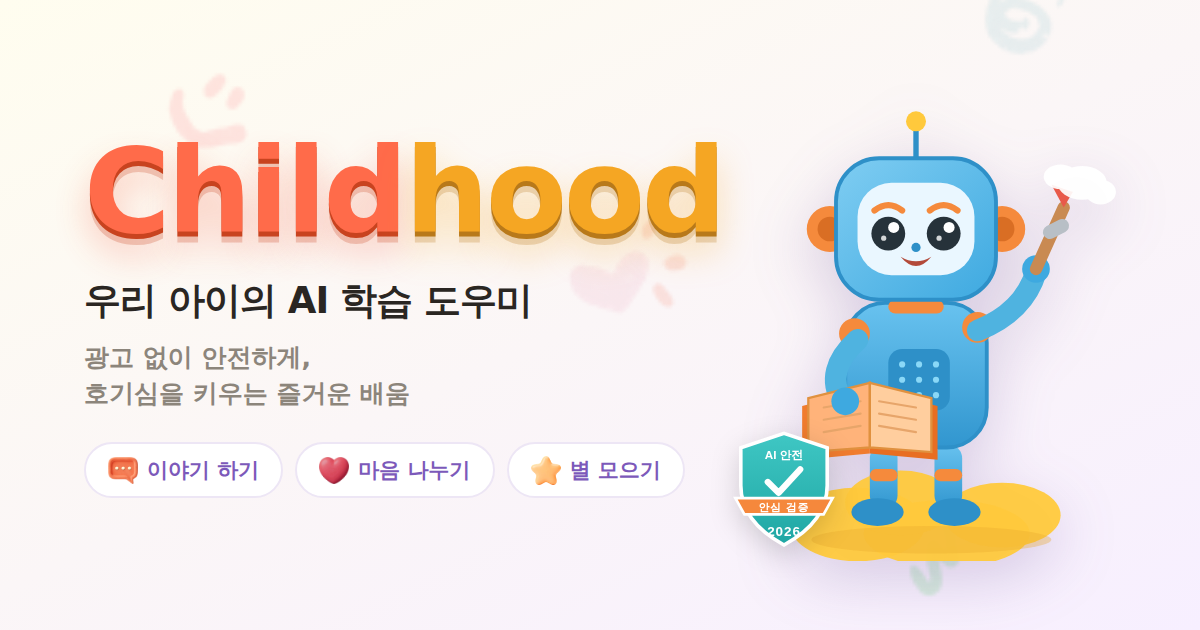
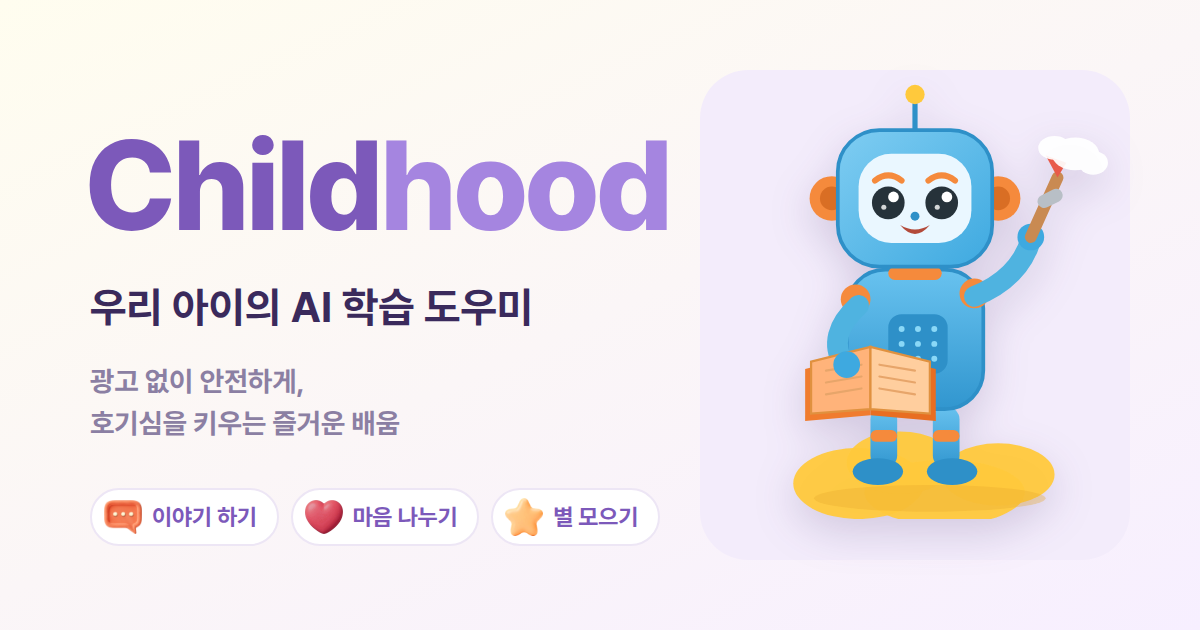
Remove unsupported promo claims, and set the test-period request cap
At the owner's direction, remove the claims the app has no basis for:
the "AI 안전 검증 2026" badge on the start screen and in the shared preview
image, the "4.8" rating (the sign-up safety step and the offer screen,
along with the invented parent review that backed it), and the "100
minutes of voice / 50 pictures a week" entitlements that nothing enforces.
The unused badge SVG and the CSS for the removed blocks go too. The preview
image is redrawn in the app's purple look without the badge.

A test scans the sources and index.html for these phrases so they cannot
come back, and a screen test walks the start screen, the sign-up steps and
the offer screen. Both fail with the removal reverted.

The Render blueprint's global daily cap is lowered to 300 for the test
period, with a note on cost. Notes record the decisions made for the test
period (monthly spend limit, parent accounts, which service stays).

Vite is updated to a patched version; the advisory is about its dev server
and does not affect the deployed site, but it failed the audit check.

Claude-Session: https://claude.ai/code/session_01WNsF1GMhdeUdp7kshLsnpY

diff --git a/src/index.css b/src/index.css
@@ -1210,16 +1210,6 @@ body {
 }
 .splash-robot-svg { width: 100%; height: auto; display: block; }
 
-.splash-badge {
-  position: absolute;
-  top: -2%;
-  left: -2%;
-  z-index: 3;
-  width: 27%;
-  filter: drop-shadow(0 6px 12px rgba(0, 0, 0, 0.2));
-}
-.badge-svg { width: 100%; height: auto; display: block; }
-
 .splash-deco {
   position: absolute;
   top: 2%;
@@ -1469,10 +1459,6 @@ body {
   place-items: center;
   font-size: 22px;
 }
-.ob-rating { margin: 28px 0 8px; text-align: center; }
-.ob-rating-num { display: block; font-size: 46px; font-weight: 900; color: #2b2117; }
-.ob-rating-sub { font-size: 14px; color: #9c8a7b; font-weight: 600; }
-
 .ob-cta {
   padding: 12px 24px calc(20px + env(safe-area-inset-bottom));
   background: linear-gradient(180deg, rgba(248,221,207,0), #F8DDCF 40%);
@@ -1661,23 +1647,6 @@ body {
 .ob-plan-name { font-size: 16px; color: #2b2117; }
 .ob-plan-price { font-size: 22px; font-weight: 900; color: #2b2117; margin-top: 2px; }
 .ob-plan-per { font-size: 12.5px; color: #9c8a7b; font-weight: 600; }
-
-.ob-pw-trust { margin-top: 26px; text-align: center; }
-.ob-pw-stars { color: #FFB400; font-size: 22px; letter-spacing: 2px; }
-.ob-pw-rating { margin-top: 6px; font-size: 14px; color: #7a6b5d; }
-.ob-pw-rating b { color: #2b2117; font-size: 16px; }
-.ob-pw-review {
-  margin-top: 14px;
-  background: #fffdfb;
-  border-radius: 16px;
-  padding: 16px 18px;
-  font-size: 15px;
-  line-height: 1.55;
-  color: #4a3d30;
-  font-weight: 600;
-  box-shadow: 0 3px 9px rgba(0, 0, 0, 0.06);
-}
-.ob-pw-review span { display: block; margin-top: 8px; font-size: 13px; color: #9c8a7b; font-weight: 700; }
 
 .ob-pw-faq { margin-top: 26px; }
 .ob-pw-faq h3 { font-size: 17px; font-weight: 800; color: #2b2117; margin-bottom: 10px; }
@@ -2635,7 +2604,7 @@ body {
 
 /* 카드/시트/모달 → 다크 표면 + 네온 라인 + 글로우 */
 .parent-banner, .guard-card, .act-card, .coll-item, .mb-item, .mb-attend.done,
-.sub-card, .ob-field, .ob-safe-card, .ob-pw-feat, .ob-pw-review, .sparks-way,
+.sub-card, .ob-field, .ob-safe-card, .ob-pw-feat, .sparks-way,
 .voice-opt, .sheet, .pin-card, .mission-modal, .celebrate, .modal, .live-stt,
 .voice-reply, .ob-plan, .ob-pw-faq details, .ask-bar, .age-opt, .sub-card {
   background: var(--surface) !important;
@@ -3235,7 +3204,7 @@ input, .composer input, .ob-field input, .im-bar input { font-size: 18px !import
 
 /* 카드·시트·모달: 흰 표면 + 아주 부드러운 그림자 */
 .parent-banner, .guard-card, .act-card, .coll-item, .mb-item, .sub-card,
-.ob-field, .ob-safe-card, .ob-pw-feat, .ob-pw-review, .sparks-way, .voice-opt,
+.ob-field, .ob-safe-card, .ob-pw-feat, .sparks-way, .voice-opt,
 .sheet, .pin-card, .mission-modal, .celebrate, .modal, .live-stt, .voice-reply,
 .ob-plan, .ob-pw-faq details, .ask-bar, .age-opt, .badge-card, .book-count,
 .hd-menu, .caption, .mb-attend.done {
@@ -4768,9 +4737,6 @@ a.guard-settings-link { text-decoration: none; color: inherit; margin-top: 10px;
   background: #fff !important; border: 1px solid #EDE6F5 !important; border-radius: 16px; box-shadow: none !important; color: #3A2A5C;
 }
 .ob.px .ob-safe-icon { background: #F3ECFB !important; }
-.ob.px .ob-rating-num { color: #7C59BA; }
-.ob.px .ob-rating-sub { color: #8B7FA3; }
-
 /* 버튼 */
 .ob.px .ob-primary {
   background: #7C59BA !important; color: #fff !important; border-radius: 999px;
@@ -4795,9 +4761,8 @@ a.guard-settings-link { text-decoration: none; color: inherit; margin-top: 10px;
 .ob.px .ob-plan-tag { background: #FFF1DD !important; color: #B45F00 !important; }
 .ob.px .ob-plan-name, .ob.px .ob-plan-price { color: #3A2A5C; }
 .ob.px .ob-plan-per { color: #8B7FA3; }
-.ob.px .ob-pw-trust, .ob.px .ob-pw-faq details { background: #fff !important; border: 1px solid #EDE6F5 !important; box-shadow: none !important; }
-.ob.px .ob-pw-stars { color: #DB6A00; }
-.ob.px .ob-pw-note, .ob.px .ob-pw-rating, .ob.px .ob-pw-review { color: #8B7FA3; }
+.ob.px .ob-pw-faq details { background: #fff !important; border: 1px solid #EDE6F5 !important; box-shadow: none !important; }
+.ob.px .ob-pw-note { color: #8B7FA3; }
 .ob.px .ob-pw-cta { background: linear-gradient(180deg, rgba(255,253,239,0), #F9F4FF 40%); }
 .ob.px h1, .ob.px .ob-pw-title { word-break: keep-all; }
 

diff --git a/src/lib/data.js b/src/lib/data.js
@@ -222,18 +222,6 @@ export function interestEmojis(interestIds) {
     .filter(Boolean);
 }
 
-// 스플래시용 안전 인증 배지 — 상표 무관 오리지널 (교육 앱스토어 배지 아님)
-export const SAFETY_BADGE = `<svg viewBox="0 0 120 140" xmlns="http://www.w3.org/2000/svg" role="img" aria-label="AI 안전 검증 2026" class="badge-svg">
-  <defs><linearGradient id="shield" x1="0" y1="0" x2="0" y2="1">
-    <stop offset="0" stop-color="#3FC7C4"/><stop offset="1" stop-color="#1FA6A3"/></linearGradient></defs>
-  <path d="M60 6 L108 22 V64 Q108 104 60 130 Q12 104 12 64 V22 Z" fill="url(#shield)" stroke="#fff" stroke-width="4"/>
-  <path d="M42 60 l12 12 l24 -26" fill="none" stroke="#fff" stroke-width="7" stroke-linecap="round" stroke-linejoin="round"/>
-  <text x="60" y="34" text-anchor="middle" fill="#fff" font-size="13" font-weight="800" font-family="sans-serif">AI 안전</text>
-  <path d="M6 78 H114 L104 96 H16 Z" fill="#F5883C" stroke="#fff" stroke-width="3"/>
-  <text x="60" y="92" text-anchor="middle" fill="#fff" font-size="12" font-weight="800" font-family="sans-serif" letter-spacing="1">안심 검증</text>
-  <text x="60" y="120" text-anchor="middle" fill="#fff" font-size="15" font-weight="800" font-family="sans-serif" letter-spacing="1">2026</text>
-</svg>`;
-
 // 스플래시 장식 — 하트 + 물감 방울
 export const SPLASH_DECO = `<svg viewBox="0 0 120 90" xmlns="http://www.w3.org/2000/svg" aria-hidden="true" class="deco-svg">
   <path d="M78 30 C78 20 92 20 92 32 C92 20 106 20 106 30 C106 42 92 52 92 52 C92 52 78 42 78 30 Z" fill="#FF5A5A"/>

diff --git a/src/screens/Onboarding.jsx b/src/screens/Onboarding.jsx
@@ -156,8 +156,6 @@ export default function Onboarding({ onDone }) {
           <div className="ob-pw-feats">
             {[
               "무제한 질문 — 안전하게 무엇이든 탐구",
-              "매주 100분 음성 대화",
-              "매주 50장 상상 그림 만들기",
               "음성 대화 기록 · 부모 열람",
             ].map((f, i) => (
               <div key={i} className="ob-pw-feat">
@@ -181,17 +179,6 @@ export default function Onboarding({ onDone }) {
                 <span className="ob-plan-per">{plans[p].per}</span>
               </button>
             ))}
-          </div>
-
-          <div className="ob-pw-trust">
-            <div className="ob-pw-stars">★★★★★</div>
-            <p className="ob-pw-rating">
-              <b>4.8</b> · 부모 후기 평점
-            </p>
-            <div className="ob-pw-review">
-              "책이 지루하다던 아이가 이제 '5분만 더' 하며 Childhood를 찾아요."
-              <span>— 어느 부모님</span>
-            </div>
           </div>
 
           <div className="ob-pw-faq">
@@ -399,10 +386,6 @@ export default function Onboarding({ onDone }) {
                   <span>{c.text}</span>
                 </div>
               ))}
-            </div>
-            <div className="ob-rating">
-              <span className="ob-rating-num">4.8</span>
-              <span className="ob-rating-sub">부모 후기 평균 평점</span>
             </div>
           </>
         )}

diff --git a/tests/claims.test.js b/tests/claims.test.js
@@ -1,0 +1,37 @@
+// 근거 없는 홍보 문구가 화면과 공유 미리보기에 다시 들어오지 않게 지킨다.
+// 평점·인증·후기·사용량 약속은 실제 데이터나 기능이 있을 때만 쓴다.
+import { test } from "node:test";
+import assert from "node:assert/strict";
+import { readFileSync, readdirSync, statSync } from "node:fs";
+import { join } from "node:path";
+
+const BANNED = [
+  [/AI 안전 검증/, "안전 인증을 받은 것처럼 보이는 배지"],
+  [/안심 검증/, "안전 인증을 받은 것처럼 보이는 배지"],
+  [/4\.8/, "근거 없는 평점"],
+  [/평점/, "평점 표시"],
+  [/어느 부모님/, "꾸며낸 후기"],
+  [/100분/, "구현되지 않은 사용량 약속"],
+  [/50장/, "구현되지 않은 사용량 약속"],
+];
+
+function sources(dir) {
+  const out = [];
+  for (const name of readdirSync(dir)) {
+    const p = join(dir, name);
+    if (statSync(p).isDirectory()) out.push(...sources(p));
+    else if (/\.(jsx?|html)$/.test(name)) out.push(p);
+  }
+  return out;
+}
+
+test("홍보 문구: 화면 코드와 index.html에 근거 없는 문구가 없다", () => {
+  const files = [...sources("src"), "index.html"];
+  assert.ok(files.length > 10, "검사 대상이 있어야 한다");
+  const hits = [];
+  for (const f of files) {
+    const text = readFileSync(f, "utf8");
+    for (const [re, why] of BANNED) if (re.test(text)) hits.push(`${f}: ${re} (${why})`);
+  }
+  assert.deepEqual(hits, []);
+});

diff --git a/src/screens/Splash.jsx b/src/screens/Splash.jsx
@@ -1,14 +1,10 @@
-import { SPLASH_ROBOT, SAFETY_BADGE, SPLASH_DECO } from "../lib/data.js";
+import { SPLASH_ROBOT, SPLASH_DECO } from "../lib/data.js";
 
 // 시작 화면(스플래시) — 참고 톤: 크림/피치 배경 + 파란 로봇 마스코트
 export default function Splash({ onStart, onParent }) {
   return (
     <section className="splash px">
       <div className="splash-hero">
-        <span
-          className="splash-badge"
-          dangerouslySetInnerHTML={{ __html: SAFETY_BADGE }}
-        />
         <span
           className="splash-deco"
           dangerouslySetInnerHTML={{ __html: SPLASH_DECO }}

diff --git a/index.html b/index.html
@@ -20,7 +20,7 @@
     <meta property="og:image" content="https://banjjaktalk.onrender.com/og.png" />
     <meta property="og:image:width" content="1200" />
     <meta property="og:image:height" content="630" />
-    <meta property="og:image:alt" content="Childhood — 파란 AI 로봇 도우미와 안전 검증 배지" />
+    <meta property="og:image:alt" content="Childhood — 파란 AI 로봇 도우미" />
     <meta property="og:locale" content="ko_KR" />
     <meta name="twitter:card" content="summary_large_image" />
     <meta name="twitter:title" content="Childhood — 아이들의 AI 학습 도우미" />

diff --git a/CLAUDE.md b/CLAUDE.md
@@ -8,19 +8,30 @@
 - **접속 주소: `https://banjjaktalk.onrender.com`** — 서비스를 만들 때 정해졌고 바꿀 수 없다.
 - 사용자 확인(2026-10-22): 이 주소를 쓰는 서비스는 Render 대시보드 목록에서 **`childhood`**라는 이름으로 보인다.
   서비스 이름은 바꿀 수 있어도 주소는 그대로이므로 **이름이 아니라 주소로 서비스를 구별한다.**
-- 대시보드에 서비스가 **하나 더** 있다(이름·주소 미확인). 2026-08-19 커밋 `baa7bdb`가 `render.yaml`의
-  서비스 이름을 `Childhood`로 바꿨을 때 Blueprint가 새 서비스를 만든 것으로 **추정**한다. 확인되면
-  **삭제하지 말고 일시 중지(Suspend)** 한다. 삭제하면 되돌릴 수 없다.
-- `render.yaml`의 `name`은 `banjjaktalk`이고, 대시보드의 실제 이름(`childhood`)과 **다르다.** Blueprint가
-  연결돼 있는지 확인되지 않아서 아직 바꾸지 않았다. 연결돼 있다면 이름이 다를 때 동기화 때 서비스가 또
-  생길 수 있다. **바꾸기 전에 사용자에게 Blueprint 연결 여부와 두 서비스의 이름·주소를 확인한다.**
+- 대시보드에는 서비스가 두 개 있었다: `childhood`와 `banjjaktalk`. 2026-08-19 커밋 `baa7bdb`가 `render.yaml`의
+  서비스 이름을 `Childhood`로 바꾼 것이 중복의 원인으로 **추정**된다. **2026-10-22 사용자가 `banjjaktalk` 서비스를
+  일시 중지(Suspend)했고 `childhood`를 남겼다.** 중지 뒤에도 `https://banjjaktalk.onrender.com`이 정상 응답하고
+  채팅이 되는 것을 확인했으므로, 이 주소는 `childhood` 서비스의 것이다. 중지한 서비스는 삭제하지 않는다.
+- `render.yaml`의 `name`은 아직 `banjjaktalk`로, 남은 서비스의 이름(`childhood`)과 **다르다.** Blueprint가 연결돼
+  있는지 확인되지 않았다. 연결돼 있다면 이름이 다를 때 동기화 때 서비스가 또 생길 수 있다. **바꾸기 전에 사용자에게
+  Blueprint 연결 여부를 확인한다**(대시보드에 Blueprints 항목이 보이는지).
 - `main`에 푸시하면 자동 배포된다. 무료 플랜이라 15분간 접속이 없으면 꺼지고 첫 응답이 느리다(10~20초 이상).
 - 필수 환경변수 `ANTHROPIC_API_KEY`는 Render 대시보드에서만 입력한다(`sync: false`). **키 값은 대화나 저장소에
   절대 적지 않는다.** 2026-10-15에는 서버의 키가 인증 오류(401)였고, 2026-10-22에 사용자가 새 키로 교체해
   채팅과 안전 분류(위기 신호 `distress`, 개인정보 `personal_info`)가 정상으로 확인됐다. 환경변수를 바꾼 뒤에는
   서버가 실제로 다시 시작돼야 반영되므로(저장만 하면 옛 값이 계속 돈다) `/api/health`의 `startedAt`으로 확인한다.
-- 선택 환경변수: `FEEDBACK_URL`(부모 화면 의견 링크), `RL_GLOBAL_PER_DAY`(테스트 기간에는 300 정도 권장),
+- 선택 환경변수: `FEEDBACK_URL`(부모 화면 의견 링크), `RL_GLOBAL_PER_DAY`(테스트 기간 값 300, 아래 "비용" 참고),
   `RL_TZ`, `STT_API_KEY`, `IMAGE_API_KEY`. 자세한 설명은 `render.yaml` 주석.
+
+### 비용 (테스트 기간)
+
+- 사용자 결정(2026-10-22): **Anthropic 콘솔 월 사용 한도 $10**, `RL_GLOBAL_PER_DAY`는 300 정도. 월 한도는 사용자가
+  콘솔에서 직접 설정한다(이 환경에서는 할 수 없다). Render의 `RL_GLOBAL_PER_DAY`도 대시보드 환경변수에서 직접 바꿔야
+  반영된다(`render.yaml`의 값은 Blueprint 동기화 때만 적용).
+- 채팅 모델은 `claude-opus-4-8`($5/$25 per MTok), 안전 분류는 `claude-haiku-4-5`. 메시지 1건에 입력 약 3~4K
+  토큰으로 보면 **대략 $0.02(추정, 실측 아님)** → $10 ≈ 약 500건/월. 300건/일이면 하루 약 $6이라 월 한도가
+  실제 안전장치이고 `RL_GLOBAL_PER_DAY`는 폭주를 막는 천장이다. 실제 사용량은 콘솔 Usage에서 며칠 지켜보고 다시
+  계산한다. 모델을 낮추는 것(Sonnet 5.5 등)은 품질·사고(thinking) 설정이 달라 사용자 결정이 필요하다.
 
 ### 배포 확인 방법
 
@@ -61,11 +72,18 @@
 ## 열려 있는 일 (사용자 결정/자료 필요)
 
 1. 중복 서비스 정리(Suspend)와 `render.yaml` 서비스 이름 맞추기(위 "배포" 절의 확인 필요 항목 먼저).
-2. 홍보 문구: "AI 안전 검증 2026" 배지, "4.8 평점", "주 100분 / 50장", "부모가 그림·음성 기록 확인"은
-   근거가 없거나 기능이 없다. 실제 서비스 전에 삭제할지 결정이 필요하다(테스트 기간에도 부모에게 보인다).
+2. 홍보 문구: 2026-10-22 사용자 지시로 "AI 안전 검증" 배지(시작 화면·공유 이미지), "4.8 평점"(가입 안전 단계·구독
+   안내, 꾸며낸 후기 포함), "주 100분 / 50장"을 삭제했다(`tests/claims.test.js`가 재유입을 막는다). **남은 것:**
+   가입 안전 단계의 "대화·음성 기록·그림을 부모가 모두 열람 — 완전한 투명성", 구독 안내의 "음성 대화 기록 · 부모 열람"
+   (앱이 음성·그림을 저장하지 않으므로 실제 기능과 다름), "무제한 질문"(서버 상한이 있음). 문구를 어떻게 바꿀지
+   사용자에게 묻는다.
 3. `FEEDBACK_URL` 설정, 테스트 기간 안전장치(`RL_GLOBAL_PER_DAY`, Anthropic 월 한도).
 4. 계정 도입 여부(기기 변경 시 데이터 유실, PIN 재설정 한계가 함께 해결됨) — 3개월 테스트 중에 결정.
-5. 개인정보: 만 14세 미만 보호자 동의와 처리방침 확인(법률 전문가 확인 권장).
+   **사용자 방침(2026-10-22): 계정과 개인정보 처리는 성인인 부모를 대상으로 한다.** 즉 가입·동의의 주체가 부모이고
+   아이는 부모 계정 아래 프로필로 둔다. 구현 전에 정할 것: 로그인 방식(부모 이메일 링크 등), 저장소(서버 DB),
+   부모의 약관·개인정보 동의 화면과 기록, 아이 데이터(이름·나이·대화)의 보관·삭제, Anthropic API로 전달되는 대화의
+   국외 이전 고지. 법률 검토는 전문가 확인을 권한다.
+5. 개인정보 처리방침·동의 문구 작성(위 4번의 부모 동의 흐름과 함께).
 6. 임시 이미지 8장(`public/img/act-*.png`, `README.md` 참고) 교체, 도메인 구매 후 `index.html`의 `og:url` /
    `og:image` 교체, 설정의 AI 목소리 이름 "반짝이"를 "별이"와 맞출지 결정.
 7. 정식 서비스 전 호스팅 재검토(후보: Google Cloud Run — 서울 리전 무료 한도와 시작 시간은 직접 확인 필요).
